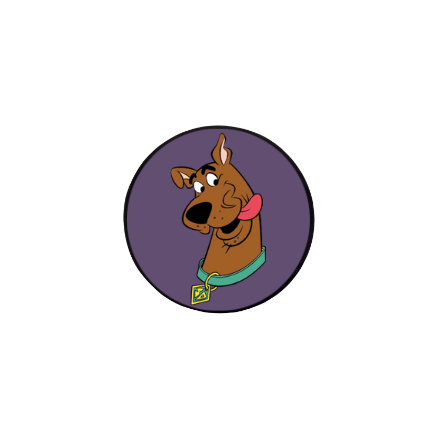
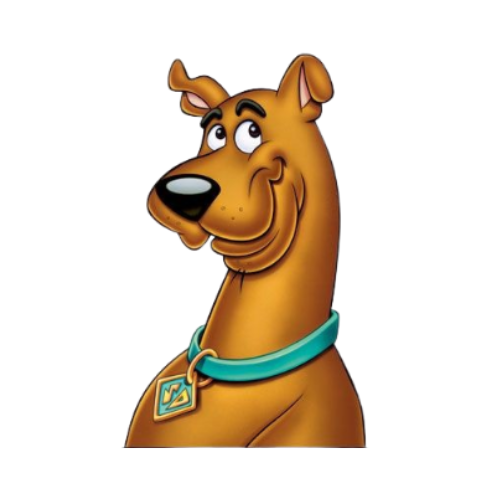
Subindo novos atulizações e arquivos

Changed region(s): [[0.2374, 0.089, 0.742, 0.9201]]

diff --git a/site/index.html b/site/index.html
@@ -4,13 +4,14 @@
 <head>
     <meta charset="UTF-8">
     <meta name="viewport" content="width=device-width, initial-scale=1.0">
-    <link rel="stylesheet" href="script/index.js">
+    <script src="script/index.js"></script>
     <link rel="stylesheet" href="style/style.css">
     <link rel="icon" href="img/logo.png">
     <title>Scooby-Doo</title>
 </head>
 
 <body>
+    <!-- Cabeçalho -->
     <header>
 
         <div class="nav-bar">
@@ -20,13 +21,14 @@
             <div class="links">
                 <li><a href="index.html">Home</a></li>
                 <li><a href="#personagens-section">Personagens</a></li>
-                <li><a href="#curiosidades">Curiosidades</a></li>
-                <li><a href="#sobre">Sobre</a></li>
+                <li><a href="#curiosidades-section">Curiosidades</a></li>
+                <li><a href="#sobre-section">Sobre</a></li>
             </div>
             <div class="botoes">
                 <button onclick="Btnlogin()" class="btn-login">Login</button>
                 <button onclick="Btncadastro()" class="btn-cadastro">Cadastro</button>
             </div>
+            <!-- Menu responsividade -->
             <div class="container-menu">
                 <div class="menu"></div>
                 <div class="menu"></div>
@@ -35,6 +37,7 @@
         </div>
     </header>
     <main>
+        <!-- Banner Inicial  -->
         <section class="banner">
             <div class="banner-text">
                 <h1>Volte no tempo e decifre os mistérios da sua infância!</h1>
@@ -47,15 +50,71 @@
                 <button onclick="btnJogar()" class="btn-jogar">🧩 Jogar Agora</button>
             </div>
         </section>
+        <!-- Personagens -->
         <section id="personagens-section" class="personagens">
-            <div class="personagens-texto">
-                <h1>Personagens</h1>
+            <!-- Botão anterior para voltar imagem -->
+            <div class="btn-anterior">
+                <button onclick="anterior()">
+                    <img src="img/arrow_back_ios_24dp_E3E3E3_FILL0_wght400_GRAD0_opsz24.png"></button>
             </div>
+            <!-- Pesonagem 1 Scooby -->
             <div class="personagens-img">
+                <div class="fundo-scooby">
+                    <img src="img/Design sem nome.png" class="scooby">
+                </div>
+
+            </div>
+            <div class="salsicha-texto">
+                <h1>Scooby-Doo</h1><br>
+                <p>
+                    Scooby-Doo é um dogue alemão medroso, divertido e muito leal.<br> No desenho, ele vive se
+                    metendo em
+                    confusões ao lado de Salsicha, sempre motivado por comida e medo de fantasmas. <br> Apesar da
+                    covardia,
+                    ele acaba ajudando a resolver mistérios graças ao seu faro apurado e aos momentos inesperados de
+                    coragem. <br> Seu jeito atrapalhado, fala característica e humor fazem dele o coração da equipe
+                    Mystery
+                    Inc.
+
+                </p>
+
+            </div>
+            <!-- Personagem 2 Salsicha -->
+            <div class="personagens-img" style="display: none;">
+                <div class="fundo-salsicha">
+                    <img src="img/salsicha.png" class="salsicha">
+                </div>
+
+            </div>
+            <div class="salsicha-texto" style="display: none;">
+                <h1>Salsicha</h1><br>
+                <p>
+                    Scooby-Doo é um dogue alemão medroso, divertido e muito leal.<br> No desenho, ele vive se
+                    metendo em
+                    confusões ao lado de Salsicha, sempre motivado por comida e medo de fantasmas. <br> Apesar da
+                    covardia,
+                    ele acaba ajudando a resolver mistérios graças ao seu faro apurado e aos momentos inesperados de
+                    coragem. <br> Seu jeito atrapalhado, fala característica e humor fazem dele o coração da equipe
+                    Mystery
+                    Inc.
+
+                </p>
                 
             </div>
-            <button class="btn-proximo" onclick="proximo()"><img src="img/arrow_forward_ios_24dp_E3E3E3_FILL0_wght400_GRAD0_opsz24.png"></button>
-            <button class="btn-anterior" onclick="anterior()" ><img src="img/arrow_back_ios_24dp_E3E3E3_FILL0_wght400_GRAD0_opsz24.png"></button>
+            
+            <div class="btn-proximo">
+                <button onclick="proximo()">
+                    <img src="img/arrow_forward_ios_24dp_E3E3E3_FILL0_wght400_GRAD0_opsz24.png"></button>
+            </div>
+            
+
+
+        </section>
+
+        <section id="curiosidades-section" class="curiosidades">
+            <div class="curiosidades-text">
+                <h1>Curiosidades</h1>
+            </div>
         </section>
     </main>
 

diff --git a/site/style/style.css b/site/style/style.css
@@ -33,6 +33,9 @@ body{
   gap: 100px ;
 }
 .nav-bar .links li{
+  display: flex;
+  justify-content: center;
+  align-items: center;
   list-style: none;
 }
 
@@ -65,6 +68,7 @@ body{
   box-shadow: 0 4px 0 #4a0072;
   font-size: 1rem;
   transition: all 0.2s ease-in-out;
+  cursor: pointer;
 }
 .nav-bar .botoes .btn-cadastro  {
   background: #6a1b9a;
@@ -77,6 +81,7 @@ body{
   box-shadow: 0 4px 0 #4a0072;
   font-size: 1rem;
   transition: all 0.2s ease-in-out;
+  cursor: pointer;
 }
 .nav-bar .botoes .btn-login:hover {
   background: #7b1fa2;
@@ -146,9 +151,9 @@ body{
 
 /* Incio Banner */
 .banner {
+  display: flex;
   width: 100%;
   height: 100vh;
-  display: flex;
   align-items: center;
   justify-content: center;
   background: rgba(0, 0, 0, 0.4);
@@ -191,6 +196,7 @@ body{
   box-shadow: 0 4px 0 #4a0072;
   font-size: 1.3rem;
   transition: all 0.3s ease-in-out;
+  cursor: pointer;
 }
 
 .btn-jogar:hover {
@@ -199,23 +205,153 @@ body{
   transform: translateY(-4px);
 }
 /* Fim banner  */
+
+
 /* Inicio Personagens */
-
-
+.personagens{
+  display: flex;
+  margin-top: 6%;
+  position: relative;
+  margin-bottom: 10%;
+  align-items: center;
+  justify-content: space-evenly;
+}
 .personagens .personagens-texto{
   display: flex;
   font-family: "Slackey", sans-serif;
   color: #ffa726; 
   font-size: 1.3rem;
-  margin-bottom: 20px;
+  margin-top: 20px;
+  margin-bottom: 130px;
   text-shadow: 3px 3px 0 #4a0072; 
   justify-content: center;
   align-items: center;
+  
+}
+/* Personagem Scooby */
+.personagens-img .fundo-scooby{
+    width: 400px;          
+    height: 400px;     
+    margin-left: 40px;
+    margin-right: 40px;
+    background-color: #4b3a60; 
+    border-radius: 50%;    
+    border: 4px solid #000;
+    display: flex;
+    justify-content: center;
+    align-items: center;
+    overflow: hidden;
+    z-index:-1;
+}
+.personagens-img .scooby{
+  display: flex;
+  object-fit: cover;
+  justify-content: center;
+  align-items: center;
+  width: 100%;
 }
 
-.btn-proximo{
-  background-color: purple;
+.scooby-texto{
+  background: rgba(0, 0, 0, 0.5);
+  padding: 50px;
+  border-radius: 20px;
+  max-width: 1000px;
+  backdrop-filter: blur(4px);
+  justify-content: center;
+  align-items: center;
+  margin: 0% 0% 0% 0%;
 }
-.btn-anterior{
-  background-color: purple;
+.scooby-texto h1{
+    display: flex;
+    font-family: "Slackey", sans-serif;
+    color: #ffa726; 
+    font-size: 1.3rem;
+    margin-bottom: 20px;
+    text-shadow: 3px 3px 0 #4a0072; 
+    justify-content: center;
+    align-items: center;
+}
+.scooby-texto p{
+  color: #b2ff59; 
+  font-size: 1.2rem; 
+  line-height: 1.8;
+  margin-bottom: 30px;
+  font-family: "Slackey", sans-serif;
+} 
+/* Personagem salsicha */
+.personagens-img .fundo-salsicha{
+    width: 400px;          
+    height: 400px;     
+    margin-left: 40px;
+    margin-right: 40px;
+    background-color: #4b3a60; 
+    border-radius: 50%;    
+    border: 4px solid #000;
+    display: flex;
+    justify-content: center;
+    align-items: center;
+    overflow: hidden;
+    z-index:-1;
+}
+.personagens-img .salsicha{
+  display: flex;
+  object-fit: cover;
+  justify-content: center;
+  align-items: center;
+  width: 100%;
+}
+
+.salsicha-texto{
+  background: rgba(0, 0, 0, 0.5);
+  padding: 50px;
+  border-radius: 20px;
+  max-width: 1000px;
+  backdrop-filter: blur(4px);
+  justify-content: center;
+  align-items: center;
+  margin: 0% 0% 0% 0%;
+}
+.salsicha-texto h1{
+    display: flex;
+    font-family: "Slackey", sans-serif;
+    color: #ffa726; 
+    font-size: 1.3rem;
+    margin-bottom: 20px;
+    text-shadow: 3px 3px 0 #4a0072; 
+    justify-content: center;
+    align-items: center;
+}
+.salsicha-texto p{
+  color: #b2ff59; 
+  font-size: 1.2rem; 
+  line-height: 1.8;
+  margin-bottom: 30px;
+  font-family: "Slackey", sans-serif;
+} 
+
+/* Configurando botão */
+.btn-proximo button {
+  border: none;
+  background-color: transparent;
+  cursor: pointer;
+}
+.btn-anterior button {
+  border: none;
+  background-color: transparent;
+  cursor: pointer;
+}
+
+
+/* Fim Personagens */
+
+/* Inicio Curiosidades */
+.curiosidades-text{
+  display: flex;
+    font-family: "Slackey", sans-serif;
+    color: #ffa726; 
+    font-size: 1.3rem;
+    margin-bottom: 20px;
+    text-shadow: 3px 3px 0 #4a0072; 
+    justify-content: center;
+    align-items: center;
 }

diff --git a/site/script/index.js b/site/script/index.js
@@ -1,0 +1,7 @@
+// vetor para troca de imagens dos personagens 
+var listaPersonagens = ["img/scooby.png","img/salsicha.png","img/fred.png","img/daphne.png","img/velma.png"];
+
+
+function proximo(){
+    var qtdPerso = listaPersonagens.length
+}
